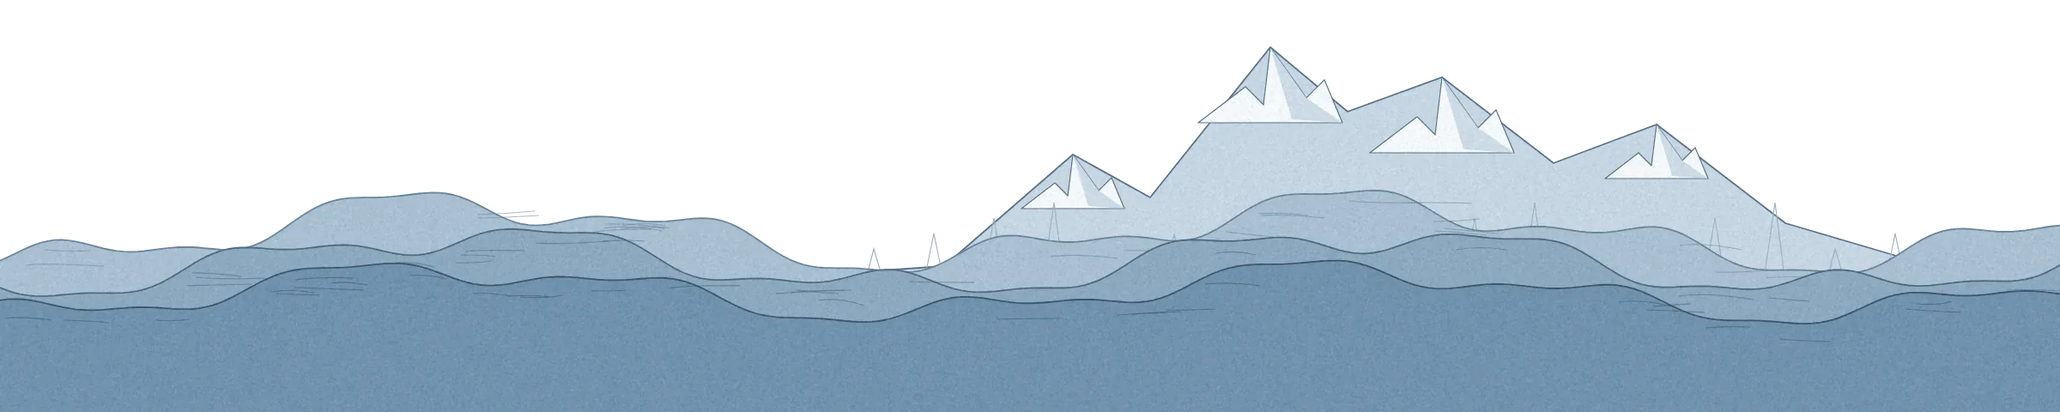
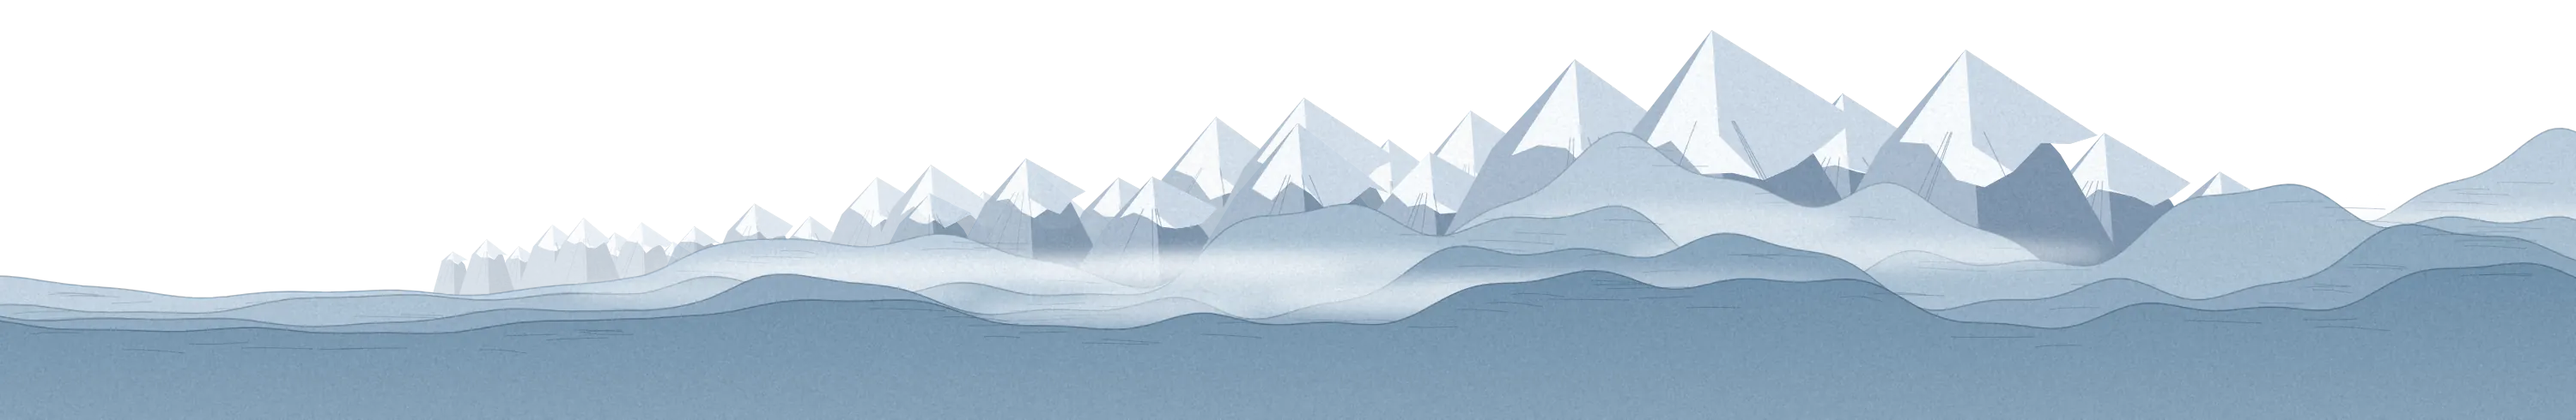
Rebuild the ride scene as a journey through eastern Nepal
The bike now rides a hill road through four zones, in order:
- Jhapa plains: paddy fields, areca palms, bamboo, tin-roof houses,
  power poles, a chiya pasal
- Ilam tea gardens: contour tea rows, shade trees, factory, laterite
  road with rain puddles
- Tamor valley: terraced walls, waterfall, landslide scars, gorge with a
  suspension bridge, river, bridge crossing, prayer flags, guard stones
- Taplejung to Kanchenjunga: pines, rhododendron, stupa, temple, snow range

Blue highway signs in Nepali and English mark Shivasatakshi, Ilam,
Kanyam, Tamor River, Taplejung and Kanchenjunga. World is 5600 units
wide with three parallax layers; road path is exported for the script.
Fix tall ground objects being clipped; readable trip counter.

Claude-Session: https://claude.ai/code/session_01E8szLp4nXBjrKyqLyGL65V

Changed region(s): [[0.0, 0.0938, 1.0, 0.8125], [0.0, 0.9375, 0.8438, 1.0], [0.875, 0.9375, 1.0, 1.0]]

diff --git a/index.html b/index.html
@@ -463,8 +463,9 @@
     display: flex; justify-content: space-between; align-items: flex-end; gap: 1rem;
     padding: 0 3.5rem 1.8rem;
     font-family: var(--mono); font-size: 0.66rem; letter-spacing: 0.16em; text-transform: uppercase;
-    color: #f6f1e3; text-shadow: 0 1px 2px rgba(31,44,51,0.55);
+    color: #f6f1e3;
   }
+  .rw-trip, .rw-hint { background: rgba(31,44,51,0.62); padding: 0.55rem 0.85rem; border-radius: 2px; backdrop-filter: blur(4px); -webkit-backdrop-filter: blur(4px); }
   .rw-trip b { font-weight: 400; font-size: 1.05rem; letter-spacing: 0.1em; font-variant-numeric: tabular-nums; margin: 0 0.25em; }
   .rw-hint { transition: opacity 0.3s; }
 
@@ -936,7 +937,7 @@
 
   <!-- The ride: scrolling moves the bike along the road -->
   <div class="ride-track" id="ride-track">
-    <div class="ride-stage" id="ride-stage" role="img" aria-label="Illustration of Utsab riding his black Pulsar 150 along a winding dirt road through green hills, with snow peaks and power lines in the distance. The bike moves along the road as the page scrolls.">
+    <div class="ride-stage" id="ride-stage" role="img" aria-label="Illustration of Utsab riding his black Pulsar 150 along a hill road through eastern Nepal: Jhapa paddy fields and areca palms, the tea gardens of Ilam, the Tamor river valley with terraced hills, and the snow peaks of Kanchenjunga. The bike moves along the road as the page scrolls.">
       <div class="rw-sky" aria-hidden="true">
         <div class="rw-skyroll" id="rw-skyroll">
           <img src="assets/images/world-sky.webp" alt="" width="2000" height="560" />
@@ -944,10 +945,10 @@
           <img src="assets/images/world-sky.webp" alt="" width="2000" height="560" />
         </div>
       </div>
-      <img class="rw-layer" id="rw-far" src="assets/images/world-far.webp" alt="" width="2400" height="480" />
-      <img class="rw-layer" id="rw-mid" src="assets/images/world-mid.webp" alt="" width="2900" height="460" />
+      <img class="rw-layer" id="rw-far" src="assets/images/world-far.webp" alt="" width="3000" height="490" />
+      <img class="rw-layer" id="rw-mid" src="assets/images/world-mid.webp" alt="" width="4300" height="470" />
       <span class="rw-mist rw-mist-a" aria-hidden="true"></span>
-      <img class="rw-layer" id="rw-ground" src="assets/images/world-ground.webp" alt="" width="3400" height="400" />
+      <img class="rw-layer" id="rw-ground" src="assets/images/world-ground.webp" alt="" width="5600" height="530" />
 
       <div class="rs" id="rs" aria-hidden="true">
         <span class="rs-shadow"></span>
@@ -1187,12 +1188,12 @@
     const stage = document.getElementById('ride-stage'), rs = document.getElementById('rs');
     const skyroll = document.getElementById('rw-skyroll'), wedges = document.getElementById('wedges');
     const odo = document.getElementById('rw-odo'), hint = document.getElementById('rw-hint');
-    const ROAD = [[-150,713.0],[-130,716.5],[-110,719.8],[-90,723.0],[-70,726.0],[-50,728.8],[-30,731.4],[-10,733.8],[10,736.1],[30,738.1],[50,739.9],[70,741.6],[90,743.1],[110,744.4],[130,745.5],[150,746.4],[170,747.3],[190,748.0],[210,748.6],[230,749.1],[250,749.5],[270,749.9],[290,750.2],[310,750.6],[330,750.9],[350,751.2],[370,751.6],[390,752.0],[410,752.4],[430,753.0],[450,753.6],[470,754.3],[490,755.1],[510,756.0],[530,757.0],[550,758.0],[570,759.2],[590,760.5],[610,761.9],[630,763.3],[650,764.8],[670,766.3],[690,767.9],[710,769.6],[730,771.2],[750,772.8],[770,774.4],[790,776.0],[810,777.5],[830,778.9],[850,780.2],[870,781.5],[890,782.6],[910,783.5],[930,784.4],[950,785.0],[970,785.6],[990,785.9],[1010,786.0],[1030,786.0],[1050,785.8],[1070,785.5],[1090,784.9],[1110,784.2],[1130,783.3],[1150,782.3],[1170,781.2],[1190,780.0],[1210,778.6],[1230,777.2],[1250,775.7],[1270,774.2],[1290,772.7],[1310,771.1],[1330,769.6],[1350,768.2],[1370,766.8],[1390,765.5],[1410,764.3],[1430,763.3],[1450,762.4],[1470,761.7],[1490,761.2],[1510,760.8],[1530,760.7],[1550,760.8],[1570,761.1],[1590,761.6],[1610,762.4],[1630,763.4],[1650,764.6],[1670,766.0],[1690,767.7],[1710,769.5],[1730,771.5],[1750,773.7],[1770,776.1],[1790,778.6],[1810,781.2],[1830,783.9],[1850,786.7],[1870,789.6],[1890,792.5],[1910,795.5],[1930,798.4],[1950,801.4],[1970,804.3],[1990,807.1],[2010,809.9],[2030,812.6],[2050,815.2],[2070,817.7],[2090,820.1],[2110,822.4],[2130,824.6],[2150,826.6],[2170,828.6],[2190,830.4],[2210,832.1],[2230,833.7],[2250,835.2],[2270,836.6],[2290,837.9],[2310,839.2],[2330,840.4],[2350,841.6],[2370,842.8],[2390,843.9],[2410,845.1],[2430,846.3],[2450,847.6],[2470,848.9],[2490,850.3],[2510,851.8],[2530,853.4],[2550,855.1],[2570,856.9],[2590,858.8],[2610,860.9],[2630,863.1],[2650,865.5],[2670,867.9],[2690,870.5],[2710,873.3],[2730,876.1],[2750,879.0],[2770,882.1],[2790,885.2],[2810,888.3],[2830,891.5],[2850,894.8],[2870,898.0],[2890,901.2],[2910,904.4],[2930,907.6],[2950,910.6],[2970,913.6],[2990,916.4],[3010,919.1],[3030,921.6],[3050,924.0],[3070,926.2],[3090,928.2],[3110,930.0],[3130,931.5],[3150,932.9],[3170,934.0],[3190,934.8],[3210,935.5],[3230,935.9],[3250,936.1],[3270,936.1],[3290,935.8],[3310,935.4],[3330,934.8],[3350,934.0],[3370,933.1],[3390,932.0],[3410,930.9],[3430,929.6],[3450,928.3],[3470,927.0],[3490,925.6],[3510,924.2],[3530,922.9],[3550,921.6]];                                  // road centre line, one point every 20 units from x = -150
-    const WORLD_W = 3400, ROAD_X0 = -150, ROAD_DX = 20;
+    const ROAD = [[-150,694.2],[-130,696.6],[-110,699.1],[-90,701.7],[-70,704.3],[-50,706.7],[-30,708.8],[-10,710.6],[10,712.1],[30,713.2],[50,714.0],[70,714.4],[90,714.7],[110,714.9],[130,715.0],[150,715.2],[170,715.5],[190,715.9],[210,716.5],[230,717.3],[250,718.1],[270,719.0],[290,719.8],[310,720.4],[330,720.8],[350,721.0],[370,720.8],[390,720.3],[410,719.5],[430,718.5],[450,717.3],[470,716.1],[490,714.9],[510,714.0],[530,713.2],[550,712.9],[570,712.9],[590,713.4],[610,714.3],[630,715.5],[650,717.1],[670,718.8],[690,720.7],[710,722.5],[730,724.3],[750,725.9],[770,727.4],[790,728.6],[810,729.6],[830,730.5],[850,731.3],[870,732.1],[890,732.9],[910,733.9],[930,735.2],[950,736.7],[970,738.7],[990,741.3],[1010,744.5],[1030,748.3],[1050,752.7],[1070,757.4],[1090,762.2],[1110,766.6],[1130,770.3],[1150,772.8],[1170,773.7],[1190,773.0],[1210,770.5],[1230,766.4],[1250,760.9],[1270,754.6],[1290,748.1],[1310,741.7],[1330,736.2],[1350,731.9],[1370,728.9],[1390,727.5],[1410,727.2],[1430,727.8],[1450,728.8],[1470,729.8],[1490,730.4],[1510,730.3],[1530,729.5],[1550,727.8],[1570,725.5],[1590,722.7],[1610,720.0],[1630,717.6],[1650,716.2],[1670,716.0],[1690,717.5],[1710,720.9],[1730,726.2],[1750,733.3],[1770,741.9],[1790,751.7],[1810,762.1],[1830,772.6],[1850,782.6],[1870,791.5],[1890,799.0],[1910,804.7],[1930,808.4],[1950,810.2],[1970,810.3],[1990,809.0],[2010,806.7],[2030,803.8],[2050,800.8],[2070,798.2],[2090,796.1],[2110,794.9],[2130,794.4],[2150,794.7],[2170,795.5],[2190,796.4],[2210,797.0],[2230,797.0],[2250,795.9],[2270,793.5],[2290,789.7],[2310,784.5],[2330,777.9],[2350,770.4],[2370,762.3],[2390,754.2],[2410,746.6],[2430,740.1],[2450,735.1],[2470,732.1],[2490,731.2],[2510,732.5],[2530,735.8],[2550,740.9],[2570,747.4],[2590,754.8],[2610,762.6],[2630,770.2],[2650,777.2],[2670,783.3],[2690,788.3],[2710,792.1],[2730,794.9],[2750,796.9],[2770,798.3],[2790,799.7],[2810,801.4],[2830,803.8],[2850,807.1],[2870,811.5],[2890,817.0],[2910,823.4],[2930,830.5],[2950,837.8],[2970,844.7],[2990,850.9],[3010,855.5],[3030,858.3],[3050,858.8],[3070,856.9],[3090,852.6],[3110,846.1],[3130,837.8],[3150,828.3],[3170,818.2],[3190,808.2],[3210,798.9],[3230,791.0],[3250,784.7],[3270,780.2],[3290,777.6],[3310,776.8],[3330,777.3],[3350,778.8],[3370,780.8],[3390,782.8],[3410,784.4],[3430,785.2],[3450,785.2],[3470,784.3],[3490,782.7],[3510,780.7],[3530,778.7],[3550,777.3],[3570,776.8],[3590,777.8],[3610,780.7],[3630,785.6],[3650,792.5],[3670,801.4],[3690,811.8],[3710,823.2],[3730,835.1],[3750,846.7],[3770,857.5],[3790,866.9],[3810,874.3],[3830,879.5],[3850,882.3],[3870,882.8],[3890,881.4],[3910,878.3],[3930,874.1],[3950,869.4],[3970,864.6],[3990,860.3],[4010,856.8],[4030,854.3],[4050,852.8],[4070,852.3],[4090,852.3],[4110,852.5],[4130,852.5],[4150,851.9],[4170,850.1],[4190,847.0],[4210,842.4],[4230,836.2],[4250,828.9],[4270,820.6],[4290,811.9],[4310,803.5],[4330,796.0],[4350,790.1],[4370,786.4],[4390,785.1],[4410,786.4],[4430,790.2],[4450,796.2],[4470,803.9],[4490,812.6],[4510,821.9],[4530,831.1],[4550,839.6],[4570,847.0],[4590,853.1],[4610,857.9],[4630,861.3],[4650,863.6],[4670,865.0],[4690,865.9],[4710,866.7],[4730,867.7],[4750,869.2],[4770,871.3],[4790,874.2],[4810,877.8],[4830,882.0],[4850,886.5],[4870,891.0],[4890,895.1],[4910,898.4],[4930,900.6],[4950,901.4],[4970,900.5],[4990,898.1],[5010,894.1],[5030,888.7],[5050,882.3],[5070,875.3],[5090,868.1],[5110,861.3],[5130,855.1],[5150,850.1],[5170,846.3],[5190,844.0],[5210,843.1],[5230,843.4],[5250,844.7],[5270,846.7],[5290,849.1],[5310,851.5],[5330,853.5],[5350,855.1],[5370,856.1],[5390,856.4],[5410,856.3],[5430,855.9],[5450,855.5],[5470,855.5],[5490,856.2],[5510,857.8],[5530,860.7],[5550,864.9],[5570,870.4],[5590,877.0],[5610,884.6],[5630,892.7],[5650,900.9],[5670,908.7],[5690,915.8],[5710,921.7],[5730,926.1],[5750,928.9]];                                  // road centre line, one point every 20 units from x = -150
+    const WORLD_W = 5600, ROAD_X0 = -150, ROAD_DX = 20, BIKE_X0 = 320, BIKE_X1 = 5300;
     const LAYERS = [                                          // image, size and top in world units, parallax factor
-      { el: document.getElementById('rw-far'),    w: 2400, h: 480, y: 160, f: 0.30 },
-      { el: document.getElementById('rw-mid'),    w: 2900, h: 460, y: 320, f: 0.65 },
-      { el: document.getElementById('rw-ground'), w: 3400, h: 400, y: 600, f: 1.00 },
+      { el: document.getElementById('rw-far'),    w: 3000, h: 490, y: 150, f: 0.30 },
+      { el: document.getElementById('rw-mid'),    w: 4300, h: 470, y: 330, f: 0.65 },
+      { el: document.getElementById('rw-ground'), w: 5600, h: 530, y: 470, f: 1.00 },
     ];
     const SKY = { w: 2000, h: 560 }, ANCHOR = { x: 356, y: 725 }, WHEEL_R = 122;
     const clamp = (v, a, b) => Math.min(b, Math.max(a, v));
@@ -1206,7 +1207,7 @@
 
     const layout = () => {
       const W = stage.clientWidth, H = stage.clientHeight;
-      s = Math.max(H / 1000, W / 1900); winW = W / s; oy = H - 1000 * s;
+      s = Math.max(H / 1000, W / 1850); winW = W / s; oy = H - 1000 * s;
       for (const L of LAYERS) {
         L.el.style.width = L.w * s + 'px'; L.el.style.height = L.h * s + 'px'; L.el.style.top = (L.y * s + oy) + 'px';
       }
@@ -1219,7 +1220,7 @@
       target = clamp(-r.top / total, 0, 1);
     };
     const draw = dt => {
-      const bx = 320 + (3100 - 320) * cur;
+      const bx = BIKE_X0 + (BIKE_X1 - BIKE_X0) * cur;
       const { y, slope } = roadAt(bx);
       const k = 0.26 + 0.38 * clamp((y - 690) / 250, 0, 1);
       const cam = clamp(bx - 0.42 * winW, 0, WORLD_W - winW);
